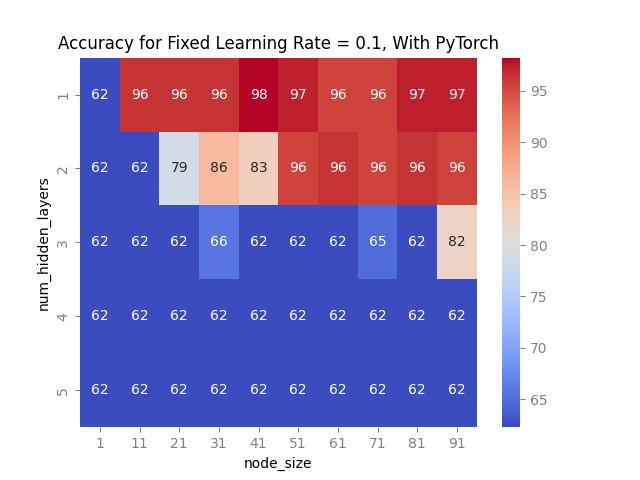
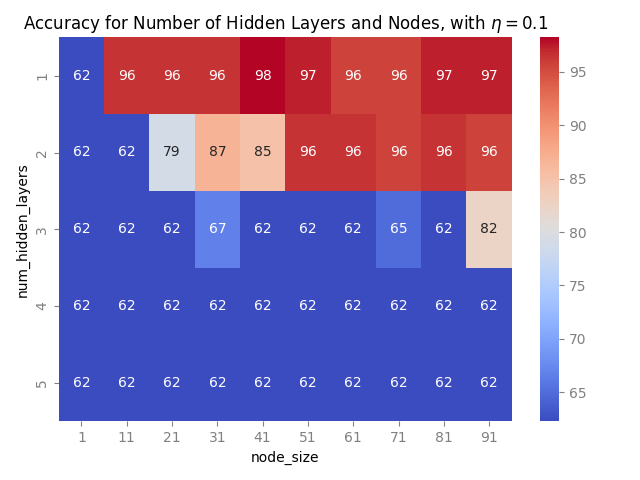
new plots for activation

diff --git a/torch_plot.py b/torch_plot.py
@@ -15,21 +15,25 @@ torch.manual_seed(2002)
 aesthetic_2D()
 
 class NN(nn.Module):
-        def __init__(self, input_size, node_size, num_hidden_layers, activation_func):
+        def __init__(self, input_size, node_size, num_hidden_layers, activation):
             super(NN, self).__init__()
 
             self.output = nn.Linear(node_size, 1) #output
             self.layers = nn.ModuleList()
             self.layers.append(nn.Linear(input_size, node_size))  #Input
-            
+            self.activation_func = None 
+
+            if activation == 'relu':
+                self.activation_func = nn.ReLU()
+            elif activation == 'leaky_relu':
+                self.activation_func = nn.LeakyReLU()
+            elif activation == 'sigmoid':
+                self.activation_func = nn.Sigmoid()
+            else:
+                raise ValueError
 
             for _ in range(num_hidden_layers):
                 self.layers.append(nn.Linear(node_size, node_size))
-
-            if activation_func not in [torch.relu, torch.sigmoid]: #nn.LeakyReLU
-                raise ValueError("Activation function must be either torch.relu, torch.leaky_relu, or torch.sigmoid.")
-            
-            self.activation_func = activation_func
 
         def forward(self, x):
             for layer in self.layers:
@@ -59,7 +63,7 @@ def gridsearch_pytorch(X_train_tensor, X_test_tensor, y_train_tensor, y_test_ten
 
     for node_size in range(1, 100, 10):
         for num_hidden_layers in [1, 2, 3, 4, 5]:#, 6, 7, 8, 9, 10]:
-            for activation_func in [torch.relu]: # nn.LeakyReLU
+            for activation_func in ["leaky_relu"]: # nn.LeakyReLU
                 model = NN(input_size, node_size, num_hidden_layers, activation_func)
 
                 # Training loop
@@ -103,9 +107,62 @@ def gridsearch_pytorch(X_train_tensor, X_test_tensor, y_train_tensor, y_test_ten
     heatmap_data = df_accuracy.pivot(index='num_hidden_layers', columns='node_size', values='accuracy')
     return heatmap_data
 
-def plot_grid_heatmap(df, save=False):
-    sns.heatmap(df, annot=True, cmap='coolwarm')
-    plt.title("Accuracy for Fixed Learning Rate = 0.1, With PyTorch")
+
+def test_activation_pytorch(X_train_tensor, X_test_tensor, y_train_tensor, y_test_tensor, input_size, node_size = 40, num_hidden_layers = 1):
+    criterion = nn.BCELoss()  # Binary Cross-Entropy loss
+    learning_rate = 0.1
+    accuracy_dict = {
+        'activation_func': [],
+        'epoch': [],
+        'accuracy': []
+    }
+
+    for activation_func in ["sigmoid", "leaky_relu", "relu"]: 
+        model = NN(input_size, node_size, num_hidden_layers, activation_func)
+
+        num_epochs = 50
+        for epoch in range(num_epochs):
+
+            # Forward pass
+            outputs = model(X_train_tensor)
+            loss = criterion(outputs, y_train_tensor)
+
+            optimizer = optim.SGD(model.parameters(), lr=learning_rate)
+
+            # Zero the gradients
+            optimizer.zero_grad()
+
+            # Backward pass
+            loss.backward()
+
+            # Update weights
+            optimizer.step()
+
+            # Print loss every 10 epochs
+            if (epoch + 1) % 10 == 0:
+                print(f'Epoch [{epoch + 1}/{num_epochs}], Loss: {loss.item():.4f}')
+
+            with torch.no_grad():
+                    test_outputs = model(X_test_tensor)
+                    predicted = (test_outputs > 0.5).float()
+                    accuracy = (predicted.eq(y_test_tensor).sum().item() / y_test_tensor.size(0)) * 100
+        
+            # Append results to the dictionary
+            accuracy_dict['epoch'].append(epoch)
+            accuracy_dict['activation_func'].append(activation_func)
+            accuracy_dict['accuracy'].append(accuracy)
+
+    # Create DataFrame from the dictionary
+    df_accuracy = pd.DataFrame(accuracy_dict)
+
+    # Pivot the DataFrame for heatmap plotting
+    heatmap_data = df_accuracy.pivot(index='epoch', columns='activation_func', values='accuracy')
+    return heatmap_data
+
+def plot_grid_heatmap(df, save=False, annot = True, title=r"Accuracy for Number of Hidden Layers and Nodes, with $\eta = 0.1$"):
+    sns.heatmap(df, annot=annot, cmap='coolwarm')
+    plt.title(title)
+    plt.tight_layout()
     if save:
         plt.savefig("figures/grid_search_layer_nodes.png")
     else:
@@ -132,11 +189,12 @@ def pytorch():
     X_test_tensor = torch.tensor(X_test, dtype=torch.float32)
     y_test_tensor = torch.tensor(y_test, dtype=torch.float32).view(-1, 1)
 
-
     # Initialize the model, loss function, and optimizer
     input_size = X_train.shape[1]
 
-    accuracy_df = gridsearch_pytorch(X_train_tensor, X_test_tensor, y_train_tensor, y_test_tensor, input_size)
+    grid_df = gridsearch_pytorch(X_train_tensor, X_test_tensor, y_train_tensor, y_test_tensor, input_size)
+
+    activation_df = test_activation_pytorch(X_train_tensor, X_test_tensor, y_train_tensor, y_test_tensor, input_size)
 
     node_size = 5
     num_hidden_layers = 5
@@ -179,8 +237,7 @@ def pytorch():
             accuracy = (predicted.eq(y_test_tensor).sum().item() / y_test_tensor.size(0)) * 100
             #print(f'Accuracy on test set: {accuracy:.2f}%')
 
-    return y_test, predicted, accuracy_df
-
+    return y_test, predicted, grid_df, activation_df
 
 
 def plot_cm(target: np.array, predicted: np.array, save = False):
@@ -198,13 +255,25 @@ def plot_cm(target: np.array, predicted: np.array, save = False):
     else:
         plt.show()
 
+def plot_activation(activation_df: pd.DataFrame, save=False):
+    plt.figure(figsize=(10, 6))
+    plt.title(r"Accuracy for Different Activation Functions in the Hidden Layers, with $\eta = 0.1$")
+    plt.xlabel("Epochs")
+    plt.ylabel("Accuracy")
+    for activation in activation_df.columns:
+        plt.plot(activation_df.index, activation_df[activation], marker='o', label=activation)
+    plt.legend()
+
+    if save:
+        plt.savefig("figures/activationfunctions_cost.png")
+    else:
+        plt.show()
+
 
 if __name__ == "__main__":
-    y_test, predicted, accuracy_df = pytorch()
+    y_test, predicted, accuracy_df, activation_df = pytorch()
     #plot_cm(y_test, predicted, save=False)
-
     plot_grid_heatmap(accuracy_df, save=True)
-
+    plot_activation(activation_df, save=True)
     
-
 
